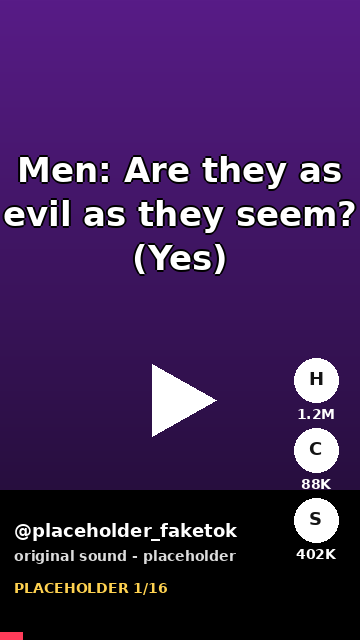
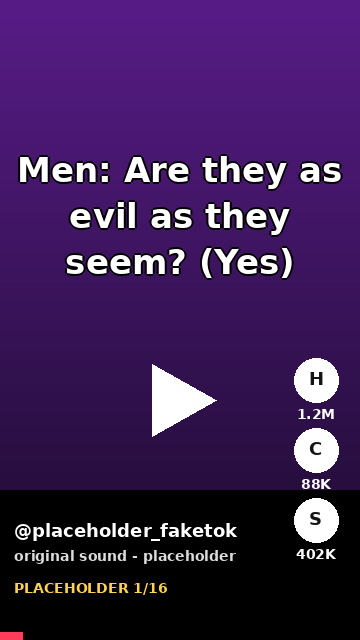
FakeTok: 11 new headlines, fix text overflow on long headlines
- New headlines per Luke: world ending, divorce storytime, proudpuppiemama,
  data center water, Kalshi gofundme, Onlyfans trailer, Lizzo diet, CONSUME,
  orange man bad, ISREAL, Terminator reshoot lore; #14 rewritten.
- make_phone_displays.py now wraps by measured pixel width and shrinks the
  font until long headlines fit on screen (was char-count wrap that clipped).

Changed region(s): [[0.0, 0.3125, 1.0, 0.4375]]

diff --git a/tools/make_phone_displays.py b/tools/make_phone_displays.py
@@ -15,19 +15,19 @@ HEADLINES = [
     "Men: Are they as evil as they seem? (Yes)",
     "Heroic mother slays her 3 vile children",
     "Meet NYC's sexiest new assassin",
-    "Girlboss divorces husband for oat milk latte",
-    "Scientists confirm touching grass is a red flag",
-    "POV: your therapist is just 3 raccoons in a trenchcoat",
-    "BREAKING: water found wet, women vindicated",
-    "Man discovers 'boundaries', immediately arrested",
+    "The world is LITTERALLY ending (fr this time)",
+    "Storytime: How my dream about cheating led to my divorce",
+    "67 reasons why having kids is immoral in 2026 #proudpuppiemama",
+    "Data Centers have WATER their is WATER in the data centers how could this be allowed????",
+    "GOFUNDME : I lost 100 grand on Kalshi. Fund my next bet!",
     "Influencer cures anxiety with $400 candle (doctors HATE her)",
-    "New study: 9 out of 10 boyfriends are just NPCs",
-    "Girl math proves rent is actually free",
-    "EXCLUSIVE: the moon is a psyop (emotional)",
-    "Day in my life as a 23-year-old CEO of vibes",
-    "He texted back in 4 minutes?? Red flag. Here's why",
-    "Nutritionists BEG you to stop eating air (1 weird trick)",
-    "Woman manifests parking spot, economy collapses",
+    "Here is how I made 50 million dollars on Onlyfans (filmed in a dilapidated trailer)",
+    "Recent studies show that Lizzos 5000 calorie diet cures all ailments",
+    "CONSUME CONSUME CONSUME CONSUME CONSUME CONSUME CONSUME CONSUME CONSUME CONSUME CONSUME CONSUME CONSUME CONSUME CONSUME CONSUME",
+    "Orange man IS BAD and does BAD thing!!!! (we should be furios)",
+    "He texted back after is 4 minuet allocated response time??? Red flag...",
+    "Look at ISREAL. Do not look outside look at what's happening in ISREAL please look at Israel don't worry about anything else stay focused on ISREAL dont lose focus guys just only think about Israel post more online about ISREAL",
+    "Terminator was originally going to be about a human, but on the last shot of the day Arnold Schwarzenegger improvised peeling his flesh off to reveal a metal skeleton. The director liked the idea so much that they reshot the movie!",
 ]
 
 BG_PAIRS = [
@@ -58,10 +58,31 @@ def vgrad(w, h, top, bottom):
         draw.line([(0, y), (w, y)], fill=c)
     return img
 
+def fit_headline(d, headline, max_w, start_size=34, min_size=16, max_lines=7):
+    # Wrap by measured pixel width; shrink the font until the headline fits
+    # in max_lines. Long headlines stay on-screen instead of clipping.
+    size = start_size
+    while True:
+        font = load_font(size)
+        words = headline.split()
+        lines, cur = [], ""
+        for w in words:
+            trial = (cur + " " + w).strip()
+            if not cur or d.textlength(trial, font=font) <= max_w:
+                cur = trial
+            else:
+                lines.append(cur)
+                cur = w
+        if cur:
+            lines.append(cur)
+        if len(lines) <= max_lines or size <= min_size:
+            return font, lines, size
+        size -= 2
+
+
 def main():
     random.seed(20260923)
     W, H = 360, 640
-    title_font = load_font(34)
     small_font = load_font(18)
     tiny_font = load_font(14)
     for i, headline in enumerate(HEADLINES):
@@ -70,8 +91,9 @@ def main():
         d = ImageDraw.Draw(img)
         # vignette-ish dark bottom for the caption
         d.rectangle([0, H - 150, W, H], fill=(0, 0, 0, 255))
-        # headline, wrapped, white with black outline
-        lines = textwrap.wrap(headline, width=18)
+        # headline, wrapped to pixel width, white with black outline
+        title_font, lines, size = fit_headline(d, headline, W - 28)
+        line_h = size + 12
         y = 150
         for line in lines:
             tw = d.textlength(line, font=title_font)
@@ -79,7 +101,7 @@ def main():
             for ox, oy in [(-2, 0), (2, 0), (0, -2), (0, 2)]:
                 d.text((x + ox, y + oy), line, font=title_font, fill=(0, 0, 0))
             d.text((x, y), line, font=title_font, fill=(255, 255, 255))
-            y += 44
+            y += line_h
         # big play triangle in the middle
         cx, cy = W // 2, 400
         d.polygon([(cx - 28, cy - 36), (cx - 28, cy + 36), (cx + 36, cy)],
